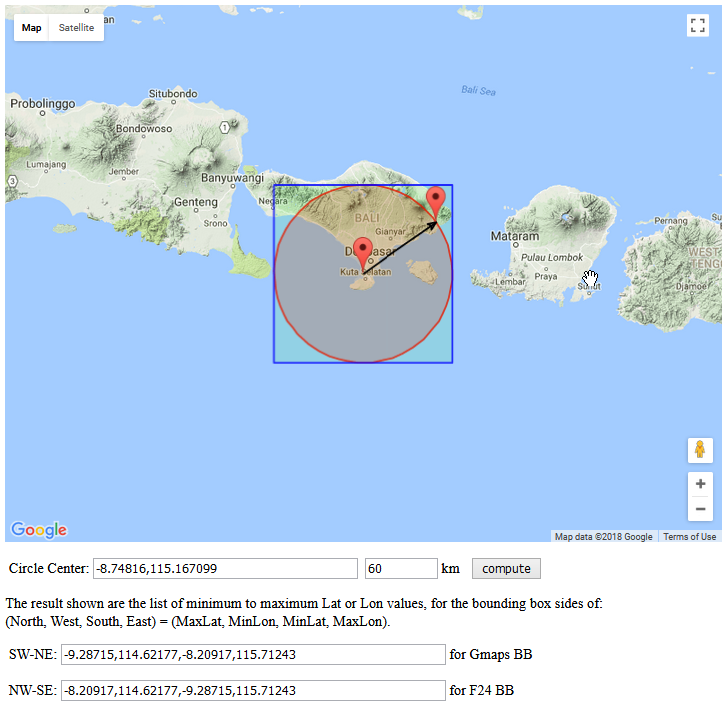
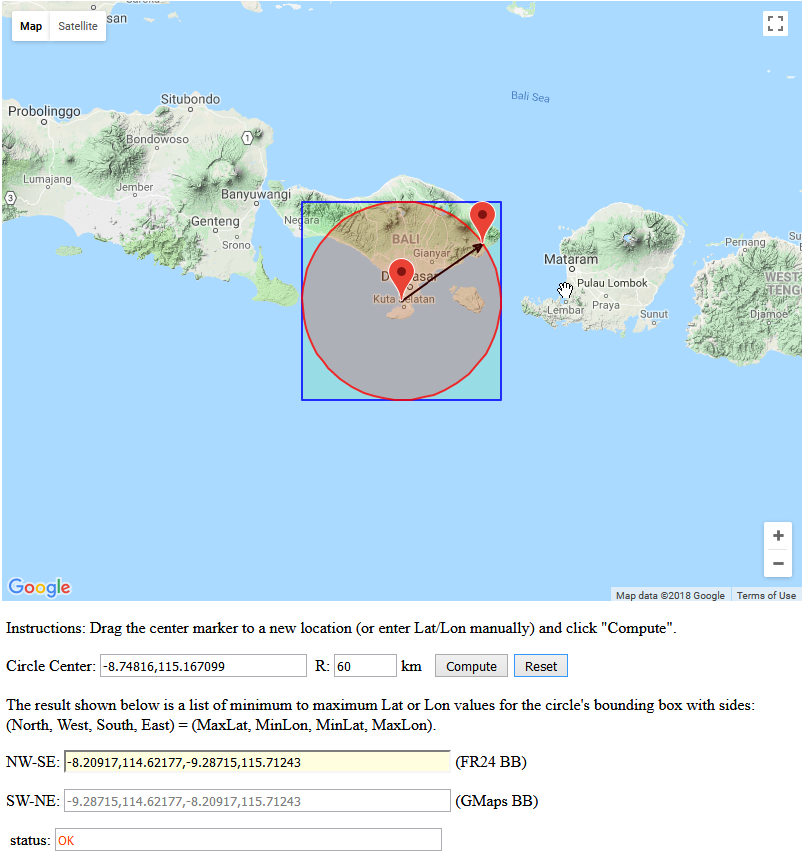
improved BB calculator - added JS check for Google Maps API key in MagicRadarBB - Updated MagicRadarBB image - updated README MRBB instructions

Changed region(s): [[0.0, 0.0, 0.9986, 0.9944], [0.6355, 0.0932, 0.696, 0.1554]]

diff --git a/tools/MagicRadarBB.html b/tools/MagicRadarBB.html
@@ -52,7 +52,7 @@
       &nbsp;(North, West, South, East) = (MaxLat, MinLon, MinLat, MaxLon).</p>
    <p>&nbsp;NW-SE:   <input type="text" "readonly" id="p2" size=60> (FR24 BB)</p>
    <p>&nbsp;SW-NE:   <input type="text" "readonly" id="p1" size=60> (GMaps BB)</p>
-   <p>&nbsp;&nbsp;status:  <input type="text" "readonly" id="status" size=40></p>
+   <p>&nbsp;&nbsp;status:  <input type="text" "readonly" id="status" size=60></p>
 
    <!-- 
    ==========================================================================
@@ -150,6 +150,12 @@
       //------------------------------------------------------------------------
       // Main
       //------------------------------------------------------------------------
+
+      // Google Maps API callback to check API failures
+      function gm_authFailure() { 
+         let apiError = "ERROR: Invalid Gmaps API key! Add your key to this file."
+         document.getElementById('status').value = apiError;
+      };
 
       function reset() {
          //setMapOnAll(null);   // hide all markers

diff --git a/README.md b/README.md
@@ -160,13 +160,23 @@ You can change this configuration later when you see that it works.
 
 Unfortunately, the API is operating with a geographical boundary-box (BB), rather than a sphercial radius from 
 a given location. So you need to convert your locations Lat/Lon (in decimal degrees) to the 4 coordinates 
-representing the sides of the BB. These are given by: `Max Lat, Min Lon, Min Lat, Max Lon`, or in other words:
-`north, west, south, east` edges.
+representing the sides of the BB. These are given by: `MaxLat, MinLon, MinLat, MaxLon`, or in other words, 
+the `north, west, south, east` edges. 
 
-However, I have made a simple GoogleMap based tool that make this calculation trivial. Just enter your
-radar center Lat/Lon and the radius. Hit calculate and copy/paste the resulting FR24 BB coordinates into 
-the MM config file. Simply point your browser to the file: `./tools/MagicRadarBB.html`. However, you will 
-need to get and enter [your own Google Maps API key](https://developers.google.com/maps/documentation/javascript/get-api-key) in that file.
+
+However, I have provided a simple GoogleMap based tool that make this calculation trivial. 
+Look at the picture above, to see what to expect. To use the tool the first time, do the following:
+
+1. Have your `Google Maps API Key` handy. You can get one [HERE](https://developers.google.com/maps/documentation/javascript/get-api-key).
+2. Edit the file: `./tools/MagicRadarBB.html` and replacing the text "YOUR_GOOGLE_MAPS_API_KEY" with yuor key.
+3. Simply point your browser to one of the following URLs:
+   * from a local browser, open the file: `./tools/MagicRadarBB.html`
+   * from a local or remote browser, go to: http://localhost:8080/modules/MMM-FlightsAbove/tools/MagicRadarBB.html
+4. Enter the Latitude and Longitude in decimal degrees, for your location.
+5. Enter the radius, out to which you want to see flights. 
+6. [optional] You can also drag the central marker to any point on the map. (Use `+`/`-` to zoom in/out.)
+7. Hit `Calculate` and copy the resulting coordinate text from the `FR24 BB` textbox into your MM config file.
+8. If you get a blank map, your API key is probaly expired, invalid or over-used.
 
 Eventually, we would like to calculate this automatically in the `node_helper.js` script. (See issues)
 
@@ -210,15 +220,12 @@ But there are also: `[id,registration,model,modes,radar]` available.
 ```diff
 -▃▃▃▃▃▃▃▃▃▃▃▃▃▃▃▃▃▃▃▃▃▃▃▃▃▃▃▃▃▃▃▃▃▃▃▃▃▃▃▃▃▃▃▃▃▃▃▃▃▃▃▃▃▃▃▃▃▃▃▃▃▃▃▃▃
 ```
-:warning: 
 
-> Please do not use an **updateInterval** shorter than ~2 minutes (120 seconds). A too short setting
-> is useless as planes do not move across the visible sky that fast, and no, you will not be able 
-> to see F16's or MIG's, as they are not tracked by F24. So please respect the free services provided 
-> by the Flightradar24 API. You also risk getting blocked by their servers if you rapid fire requests.
-> Finally, the services provided by them could break at any time, there are no service guarantees.  
-
-:warning: 
+> :warning: Please do not use an **updateInterval** shorter than ~2 minutes (120 seconds). A too short 
+> setting is useless as planes do not move across the visible sky that fast, and no, you will not be 
+> able to see F16's or MIG's, as they are not tracked by F24. So please respect the free services 
+> provided by the Flightradar24 API. You also risk getting blocked by their servers if you rapid-fire 
+> requests. Finally, the services provided by them could break at any time, there are no service guarantees. :warning: 
 
 ```diff
 -▃▃▃▃▃▃▃▃▃▃▃▃▃▃▃▃▃▃▃▃▃▃▃▃▃▃▃▃▃▃▃▃▃▃▃▃▃▃▃▃▃▃▃▃▃▃▃▃▃▃▃▃▃▃▃▃▃▃▃▃▃▃▃▃▃
